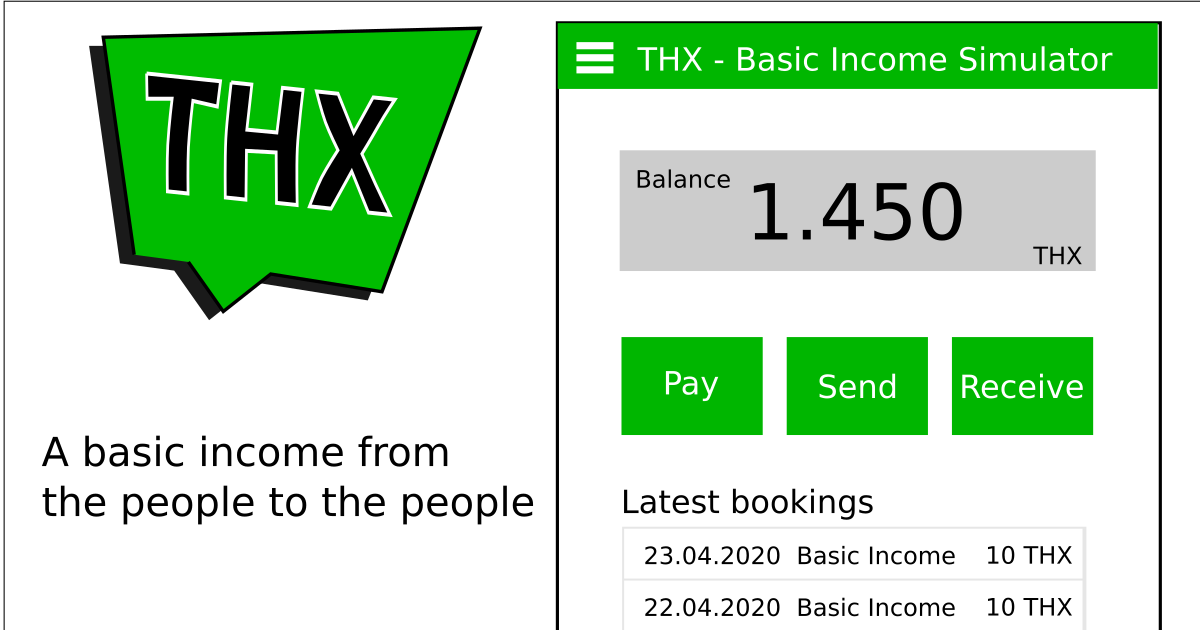
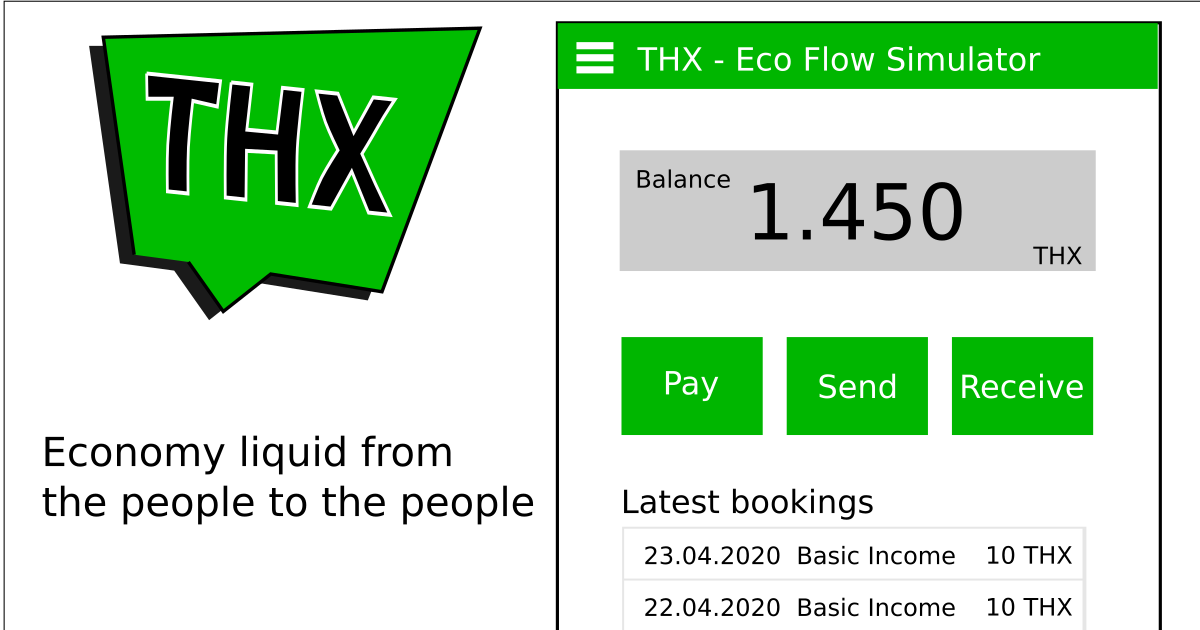
upd

Changed region(s): [[0.0308, 0.6937, 0.4008, 0.754], [0.6167, 0.0603, 0.925, 0.1206]]

diff --git a/docs/index.html b/docs/index.html
@@ -5,7 +5,7 @@
 	<head>
 		<!-- atropos/head.html -->
     <meta charset="utf-8" />
-    <title>THX - Basic Income Simulator</title>
+    <title>THX - Eco Flow Simulator</title>
     <meta name="keywords" content="basic income, thx, currency, crypto" />
     <meta name="description" content="Basic Income Simulation" />
     <meta name="Author" content="Olaf" />
@@ -143,7 +143,7 @@
 <div class="row">
 <div class="col-md-12">
 <h1>
-	<strong>Willkommen</strong> bei THX - Basic Income Simulator
+	<strong>Willkommen</strong> bei THX - Eco Flow Simulator
 	<span class="subtitle">WIR SIND SEHR FROH DAS DU UNS GEFUNDEN HAST</span>
 </h1>
 <p class="lead">Wir haben die folgende Situation</p>

diff --git a/pages/index.qml b/pages/index.qml
@@ -3,7 +3,7 @@ import RevolutionSlider 1.0
 import TextEditor 1.0
 
 Content {
-    title: "THX - Basic Income Simulator"
+    title: "THX - Eco Flow Simulator"
     menu: "default"
     author: "Olaf"
     layout: "default"
@@ -35,7 +35,7 @@ Content {
 
                 Text {
                     text: "&lt;h1&gt;
-	&lt;strong&gt;Willkommen&lt;/strong&gt; bei THX - Basic Income Simulator
+	&lt;strong&gt;Willkommen&lt;/strong&gt; bei THX - Eco Flow Simulator
 	&lt;span class=&quot;subtitle&quot;&gt;WIR SIND SEHR FROH DAS DU UNS GEFUNDEN HAST&lt;/span&gt;
 &lt;/h1&gt;
 &lt;p class=&quot;lead&quot;&gt;Wir haben die folgende Situation&lt;/p&gt;

diff --git a/docs/index_en.html b/docs/index_en.html
@@ -5,7 +5,7 @@
 	<head>
 		<!-- atropos/head.html -->
     <meta charset="utf-8" />
-    <title>THX - Basic Income Simulator</title>
+    <title>THX - Eco Flow Simulator</title>
     <meta name="keywords" content="basic income, thx, currency, crypto" />
     <meta name="description" content="Basic Income Simulation" />
     <meta name="Author" content="Olaf" />
@@ -143,7 +143,7 @@
 <div class="row">
 <div class="col-md-12">
 <h1>
-	<strong>Welcome</strong> to THX - Basic Income Simulator
+	<strong>Welcome</strong> to THX - Eco Flow Simulator
 	<span class="subtitle">WE ARE HAPPY THAT YOU HAVE FOUND US</span>
 </h1>
 

diff --git a/pages/index_en.qml b/pages/index_en.qml
@@ -3,7 +3,7 @@ import RevolutionSlider 1.0
 import TextEditor 1.0
 
 Content {
-    title: "THX - Basic Income Simulator"
+    title: "THX - Eco Flow Simulator"
     menu: "default_en"
     author: "Olaf"
     layout: "default"
@@ -35,7 +35,7 @@ Content {
 
                 Text {
                     text: "&lt;h1&gt;
-	&lt;strong&gt;Welcome&lt;/strong&gt; to THX - Basic Income Simulator
+	&lt;strong&gt;Welcome&lt;/strong&gt; to THX - Eco Flow Simulator
 	&lt;span class=&quot;subtitle&quot;&gt;WE ARE HAPPY THAT YOU HAVE FOUND US&lt;/span&gt;
 &lt;/h1&gt;
 
